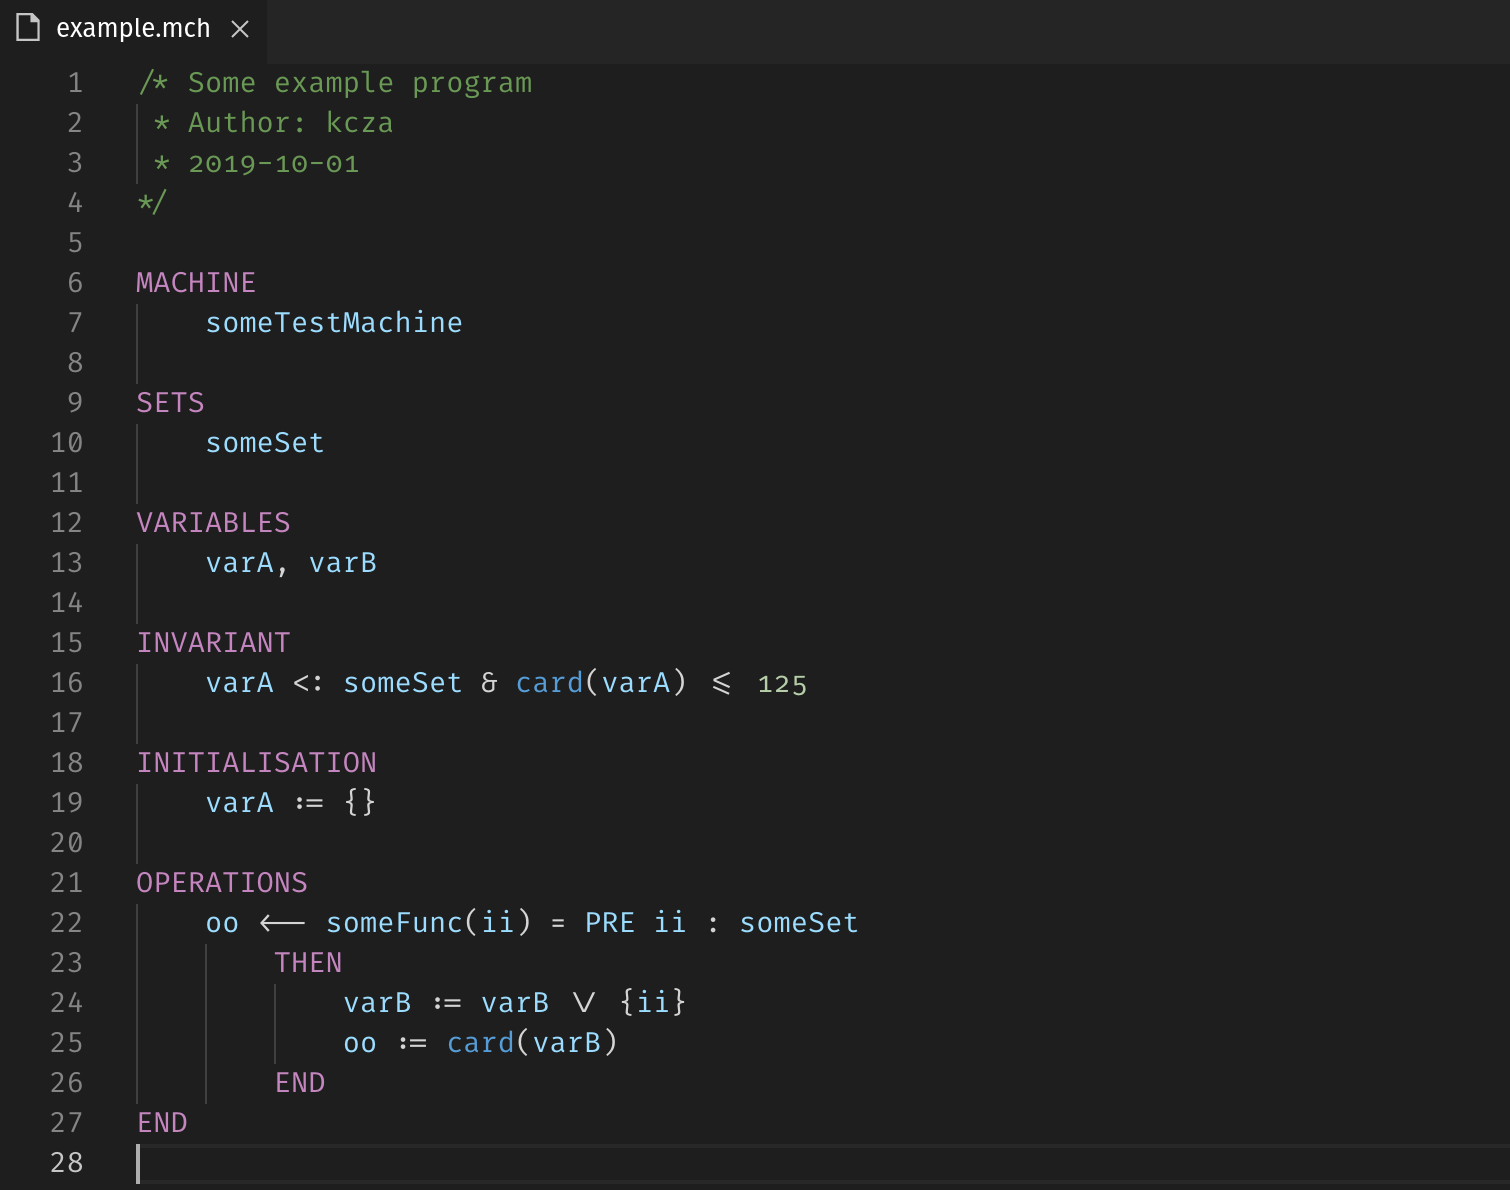
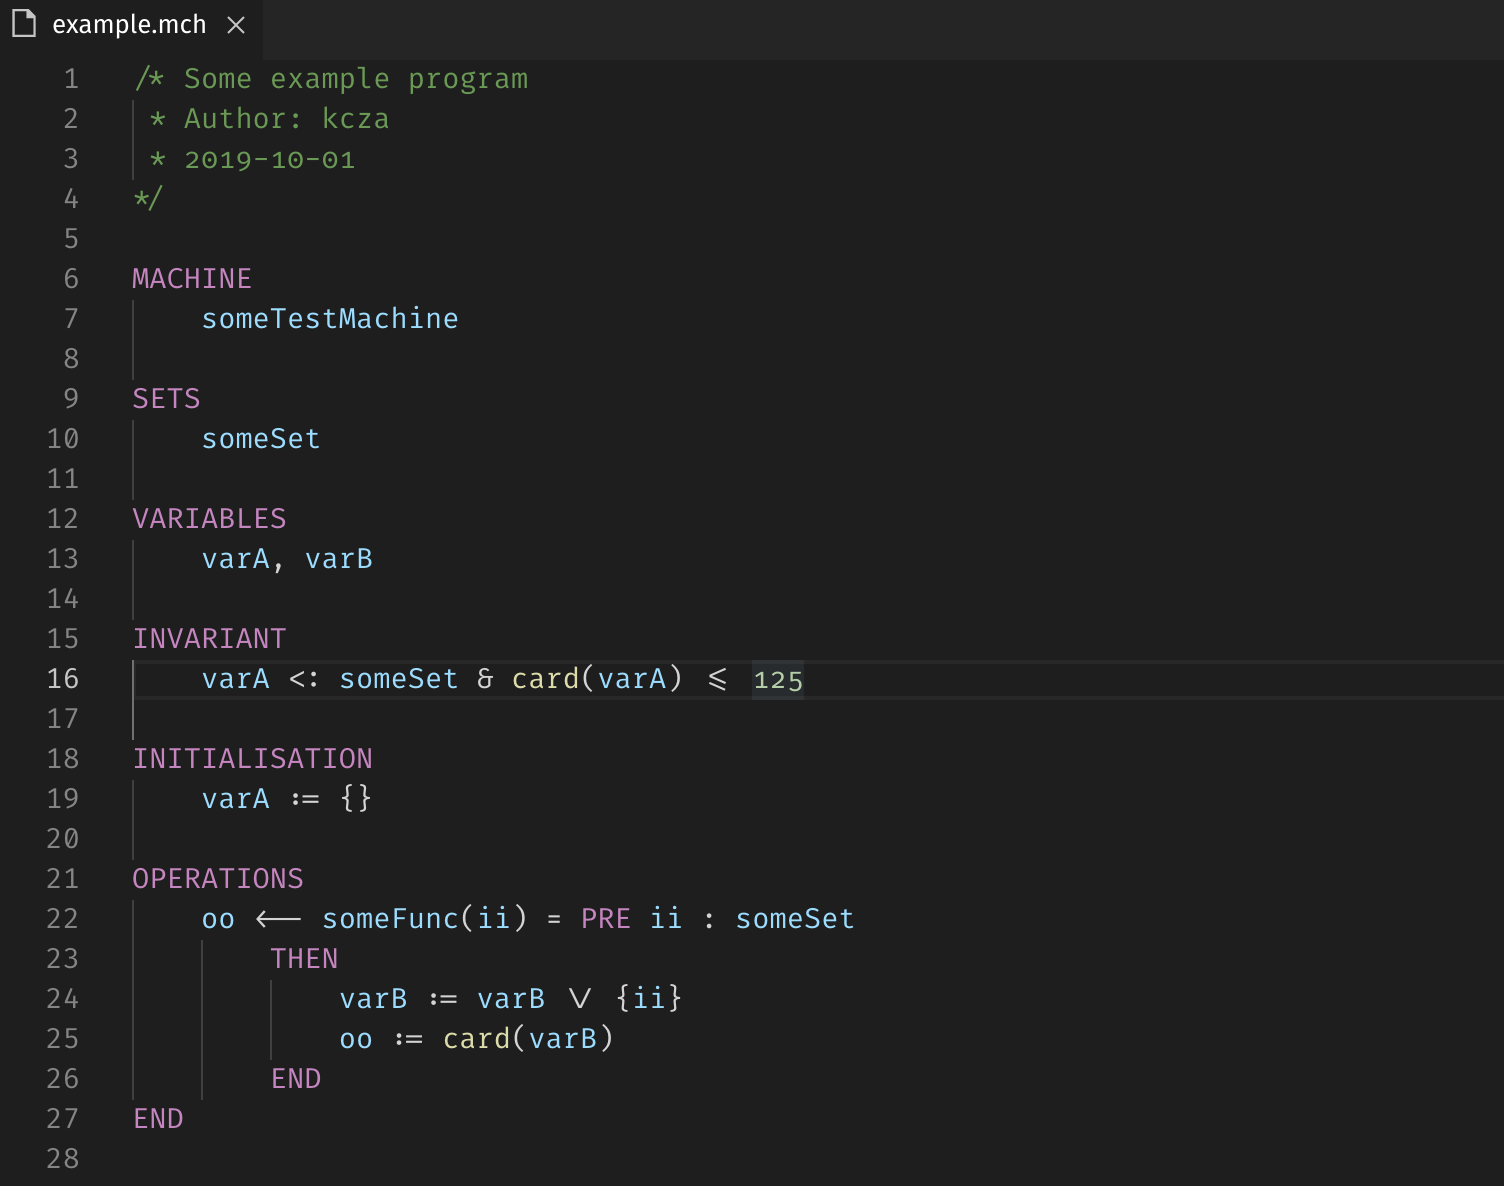
Updated screenshot

diff --git a/CHANGELOG.md b/CHANGELOG.md
@@ -2,6 +2,10 @@
 
 All notable changes to the "b-language-support" extension will be documented in this file.
 
+## 1.3.1
+
+- Updated screenshot in the README
+
 ## 1.3.0
 
 - Changed syntax highlighting class of build-in functions
